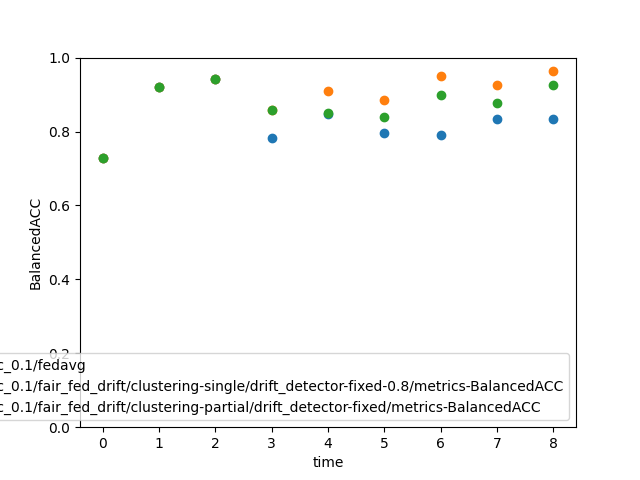
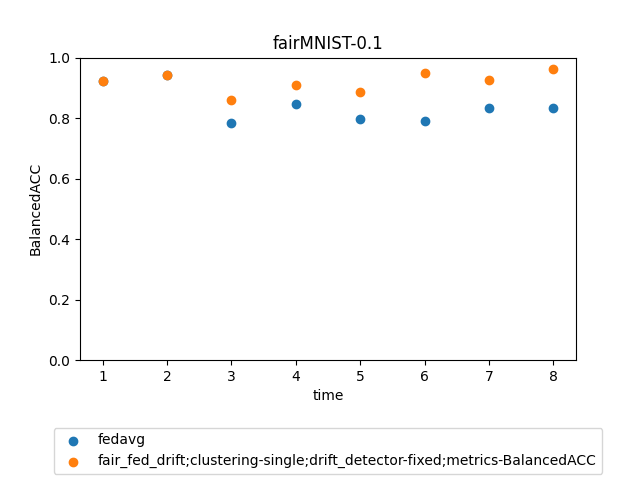
Adds results. Improves plotting.

diff --git a/plot/plot.py b/plot/plot.py
@@ -1,8 +1,6 @@
 import matplotlib.pyplot as plt
-import numpy as np
 import random
 import pandas as pd
-import distinctipy
 
 
 def plot_synthetic_data(drift_data, n_drifts, n_samples, filename):
@@ -77,58 +75,8 @@ def read_results(metrics, filename):
     return res
 
 
-def plot(res_clients, filename, metric):
-    plt.figure()
-    markers = [".", "+", "*", 1, 2]
-    edgecolors = distinctipy.get_colors(20)
-
-    for i in range(len(res_clients)):
-        unique_drifts_ids = res_clients[i]["drift-id"].unique()
-        for drift_id in unique_drifts_ids:
-            unique_gm_ids = res_clients[i]["gm-id"].unique()
-            for gm_id in unique_gm_ids:
-                indexes = np.where(
-                    (res_clients[i]["drift-id"].values == drift_id) & (res_clients[i]["gm-id"].values == gm_id)
-                )[0]
-                plt.scatter(
-                    indexes, res_clients[i][metric].values[indexes],
-                    marker=markers[drift_id], color=edgecolors[i],
-                    label="client-{} drift-{} gm={}".format(i + 1, drift_id, gm_id)
-                )
-
-    plt.ylim([0, 1])
-    plt.xlabel("time")
-    plt.ylabel(metric)
-    plt.savefig(filename)
-    plt.close()
-
-
-def plot_avg(res_clients, filename, metric):
-    plt.figure()
-    avg = []
-    for i in range(len(res_clients[0][metric].values)):
-        values = []
-        for j in range(len(res_clients)):
-            if i == 0:
-                values.append(res_clients[j][metric].values[i])
-            else:
-                previous_drift_id = res_clients[j]["drift-id"][i - 1]
-                current_drift_id = res_clients[j]["drift-id"][i]
-                if current_drift_id == previous_drift_id:
-                    values.append(res_clients[j][metric].values[i])
-        avg.append(sum(values) / len(values))
-
-    plt.scatter(range(0, len(res_clients[0][metric].values)), avg)
-    plt.ylim([0, 1])
-    plt.xlabel("time")
-    plt.ylabel(metric)
-    plt.legend()
-    plt.savefig(filename)
-    plt.close()
-
-
-def plot_algorithms(res_clients_list, algs, filename, metric):
-    plt.figure()
+def plot_algorithms(res_clients_list, algs, filename, metric, title):
+    fig = plt.figure()
     for res_clients, alg in zip(res_clients_list, algs):
         avg = []
         for i in range(len(res_clients[0][metric].values)):
@@ -139,41 +87,15 @@ def plot_algorithms(res_clients_list, algs, filename, metric):
                 else:
                     previous_drift_id = res_clients[j]["drift-id"][i - 1]
                     current_drift_id = res_clients[j]["drift-id"][i]
-                    print(previous_drift_id, current_drift_id)
                     if current_drift_id == previous_drift_id:
                         values.append(res_clients[j][metric].values[i])
             avg.append(sum(values) / len(values))
-        plt.scatter(range(0, len(res_clients[0][metric].values)), avg, label=alg)
+        plt.scatter(range(1, len(res_clients[0][metric].values)), avg[1:], label=alg)
     plt.ylim([0, 1])
+    plt.title(title)
     plt.xlabel("time")
     plt.ylabel(metric)
-    plt.legend(loc="lower right")
+    plt.legend(loc="lower center", bbox_to_anchor=(0.5, -0.4))
+    fig.subplots_adjust(bottom=0.25)
     plt.savefig(filename)
     plt.close()
-
-
-def plot_each_client(res_clients, filename, metric):
-    markers = [".", "+", "*", 1, 2]
-    colors = distinctipy.get_colors(20)
-
-    for i in range(len(res_clients)):
-        plt.figure()
-        unique_drifts_ids = res_clients[i]["drift-id"].unique()
-        for drift_id in unique_drifts_ids:
-            unique_gm_ids = res_clients[i]["gm-id"].unique()
-            for j, gm_id in enumerate(unique_gm_ids):
-                indexes = np.where(
-                    (res_clients[i]["drift-id"].values == drift_id) & (res_clients[i]["gm-id"].values == gm_id)
-                )[0]
-                plt.scatter(
-                    indexes, res_clients[i][metric].values[indexes],
-                    label="drift-{} gm={}".format(drift_id, gm_id), marker=markers[drift_id], color=colors[j]
-                )
-
-        plt.xlabel("time")
-        plt.ylabel(metric)
-        plt.legend()
-        plt.ylim([0, 1])
-        print(filename.replace(".png", "_client_{}.png".format(i)))
-        plt.savefig(filename.replace(".png", "_client_{}.png".format(i)))
-        plt.close()

diff --git a/datasets/synthetic/Synthetic.py b/datasets/synthetic/Synthetic.py
@@ -12,7 +12,7 @@ class Synthetic(Dataset):
         name = "synthetic"
         n_features = 3
         super().__init__(name, n_features)
-        self.n_samples = 5000
+        self.n_samples = 1500
         self.is_image = False
 
     def create_batched_data(self, algorithm_subfolders, varying_disc):
@@ -52,23 +52,35 @@ class Synthetic(Dataset):
 
     def generate_drift_data(self, algorithm_subfolders, n_drifts, varying_disc, n_samples):
         drift_data = []
-        up = 0
-        right = 0
 
         for i in range(n_drifts):
-            print("disc {} | up: {} | right: {} | n_samples: {}".format(varying_disc, up, right, n_samples[i]))
-            X_client, y_client, s_client = generate_synthetic_data(n_samples[i], varying_disc, right, up)
+            if i == 0:
+                up = 0
+                right = 0
+                round_up = 0
+            elif i == 1:
+                up = 0.5
+                right = 0.5
+                round_up = 0
+            elif i == 2:
+                up = 0
+                right = 0
+                round_up = 1
+            else:
+                raise Exception("Invalid drift")
+            print("disc {} | up: {} | right: {} | round_up: {} n_samples: {}".format(
+                varying_disc, up, right, round_up, n_samples[i])
+            )
+            X_client, y_client, s_client = generate_synthetic_data(n_samples[i], varying_disc, right, up, round_up)
             X_client = np.append(X_client, s_client.reshape((len(s_client), 1)), axis=1)
             drift_data.append([X_client, y_client, s_client, varying_disc, right, up])
-            up += 0.2
-            right += 0.2
         filename = "{}/data.png".format(self.get_folder(algorithm_subfolders, varying_disc))
         plot_synthetic_data(drift_data, n_drifts, n_samples, filename)
 
         return drift_data
 
 
-def generate_synthetic_data(n_samples, varying_disc, right, up):
+def generate_synthetic_data(n_samples, varying_disc, right, up, round_up):
     """
         Code for generating the synthetic data.
         We will have two non-sensitive features and one sensitive feature.
@@ -85,22 +97,22 @@ def generate_synthetic_data(n_samples, varying_disc, right, up):
         y = np.ones(n_samples, dtype=float) * class_label
         return nv, X, y
 
-    n_up = int((n_samples // 4) * varying_disc)
-    n_others = (n_samples - n_up) // 3
-    if n_others*3 + n_up != n_samples:
-        n_up += n_samples - (n_others*3 + n_up)
+    n_privileged = int(n_samples / (2 + 2*varying_disc))
+    n_unprivileged = int(n_privileged * varying_disc)
+    if (n_privileged*2 + n_unprivileged*2) != n_samples:
+        n_privileged = int(n_privileged + (n_samples - (n_privileged*2 + n_unprivileged*2)) / 2)
 
     mu_pp, sigma_pp = [2.5, 2.5], [[3, 1], [1, 3]]  # privileged positive
-    nv_pp, X_pp, y_pp = gen_gaussian(mu_pp, sigma_pp, 1, n_others)
+    nv_pp, X_pp, y_pp = gen_gaussian(mu_pp, sigma_pp, 1, n_privileged)
 
     mu_pn, sigma_pn = [-2.5, -2.5], [[3, 1], [1, 3]]  # privileged negative
-    nv_pn, X_pn, y_pn = gen_gaussian(mu_pn, sigma_pn, 0, n_others)
+    nv_pn, X_pn, y_pn = gen_gaussian(mu_pn, sigma_pn, 0, n_privileged)
 
-    mu_up, sigma_up = [2 - right, 2 - up], [[3, 1], [1, 3]]  # unprivileged positive
-    nv_up, X_up, y_up = gen_gaussian(mu_up, sigma_up, 1, n_up)
+    mu_up, sigma_up = [2 - right, 2 - up], [[3 + round_up, 1 + round_up], [1 + round_up, 3 + round_up]]  # unprivileged positive
+    nv_up, X_up, y_up = gen_gaussian(mu_up, sigma_up, 1, n_unprivileged)
 
-    mu_un, sigma_un = [0 + right, 0 + up], [[3, 1], [1, 3]]  # unprivileged negative
-    nv_un, X_un, y_un = gen_gaussian(mu_un, sigma_un, 0, n_others)
+    mu_un, sigma_un = [0 + right, 0 + up], [[3 + round_up, 1 + round_up], [1 + round_up, 3 + round_up]]  # unprivileged negative
+    nv_un, X_un, y_un = gen_gaussian(mu_un, sigma_un, 0, n_unprivileged)
 
     X = np.vstack((X_pp, X_pn, X_up, X_un))
     y = np.hstack((y_pp, y_pn, y_up, y_un))

diff --git a/plot.py b/plot.py
@@ -1,34 +1,36 @@
-from main import get_arguments
+from datasets.DatasetFactory import get_dataset_by_name
 from metrics.MetricFactory import get_metrics
-from plot.plot import read_results, plot, plot_each_client, plot_avg, plot_algorithms
+from plot.plot import read_results, plot_algorithms
+import argparse
+import sys
+
+
+def get_arguments():
+    parser = argparse.ArgumentParser()
+    parser.add_argument('--dataset', required=True, help='dataset')
+    parser.add_argument('--varying_disc', required=True, help='varying_disc')
+
+    args = parser.parse_args(sys.argv[1:])
+    dataset = get_dataset_by_name(args.dataset)
+    varying_disc = float(args.varying_disc)
+
+    return dataset, varying_disc
+
 
 if __name__ == '__main__':
-    algorithm, dataset, varying_disc = get_arguments()
-    folder = dataset.get_folder(algorithm.subfolders, varying_disc)
-    res_clients = []
-
-    for i in range(dataset.n_clients):
-        res_client = read_results(
-            get_metrics(dataset.is_image),
-            "{}/client_{}/results.csv".format(folder, i+1)
-        )
-        res_clients.append(res_client)
-
-    for metric in get_metrics(dataset.is_image):
-        plot(res_clients, "{}/results_{}.png".format(folder, metric.name), metric.name)
-        plot_avg(res_clients, "{}/results_avg_{}.png".format(folder, metric.name), metric.name)
-        plot_each_client(res_clients, "{}/results_{}.png".format(folder, metric.name), metric.name)
-
+    dataset, varying_disc = get_arguments()
     main_folder, all_folders, algs = dataset.get_all_folders(varying_disc)
+
     res_clients_list = []
-    print(all_folders)
     for folder_ in all_folders:
         res_clients = []
         for i in range(dataset.n_clients):
-            print(all_folders)
-            print(folder_)
             res_client = read_results(get_metrics(dataset.is_image), "{}/client_{}/results.csv".format(folder_, i+1))
             res_clients.append(res_client)
         res_clients_list.append(res_clients)
+
     for metric in get_metrics(dataset.is_image):
-        plot_algorithms(res_clients_list, algs, "{}/results_{}.png".format(main_folder, metric.name), metric.name)
+        plot_algorithms(
+            res_clients_list, algs, "{}/results_{}.png".format(main_folder, metric.name), metric.name,
+            "{}-{}".format(dataset.name, str(varying_disc))
+        )

diff --git a/datasets/Dataset.py b/datasets/Dataset.py
@@ -39,8 +39,10 @@ class Dataset:
     def get_all_folders(self, varying_disc):
         folder = "./results/{}/disc_{}".format(self.name, varying_disc)
         folders = []
+        algs = []
         for x in os.walk(folder):
             if len(x) > 1 and "client_1" in x[1]:
                 folders.append(x[0])
+                algs.append(";".join(x[0].split("/")[4:]))
 
-        return folder, folders, folders  # TODO
+        return folder, folders, algs

diff --git a/federated/algorithms/fair_fed_drift/clustering/SingleClustering.py b/federated/algorithms/fair_fed_drift/clustering/SingleClustering.py
@@ -21,7 +21,7 @@ class SingleClustering(Clustering):
         model_id_amounts = {}
 
         for global_model, results in results_global_models.items():
-            if sum(results) > sum(best_results):
+            if sum(results) > sum(best_results) or best_global_model is None:
                 best_results = results
                 best_global_model = global_model
                 model_id_amounts = {global_model.id: 1}

diff --git a/federated/algorithms/Algorithm.py b/federated/algorithms/Algorithm.py
@@ -38,7 +38,7 @@ class Algorithm:
                 if y_pred_original_i[0] > 0.5:
                     y_pred_new_i = 1
                 y_pred.append(y_pred_new_i)
-                y_true.append(y_true_original_i.argmax())
+                y_true.append(y_true_original_i)
                 y_pred_original.append(y_pred_original_i[0])
             else:
                 y_pred.append(y_pred_original_i.argmax())
